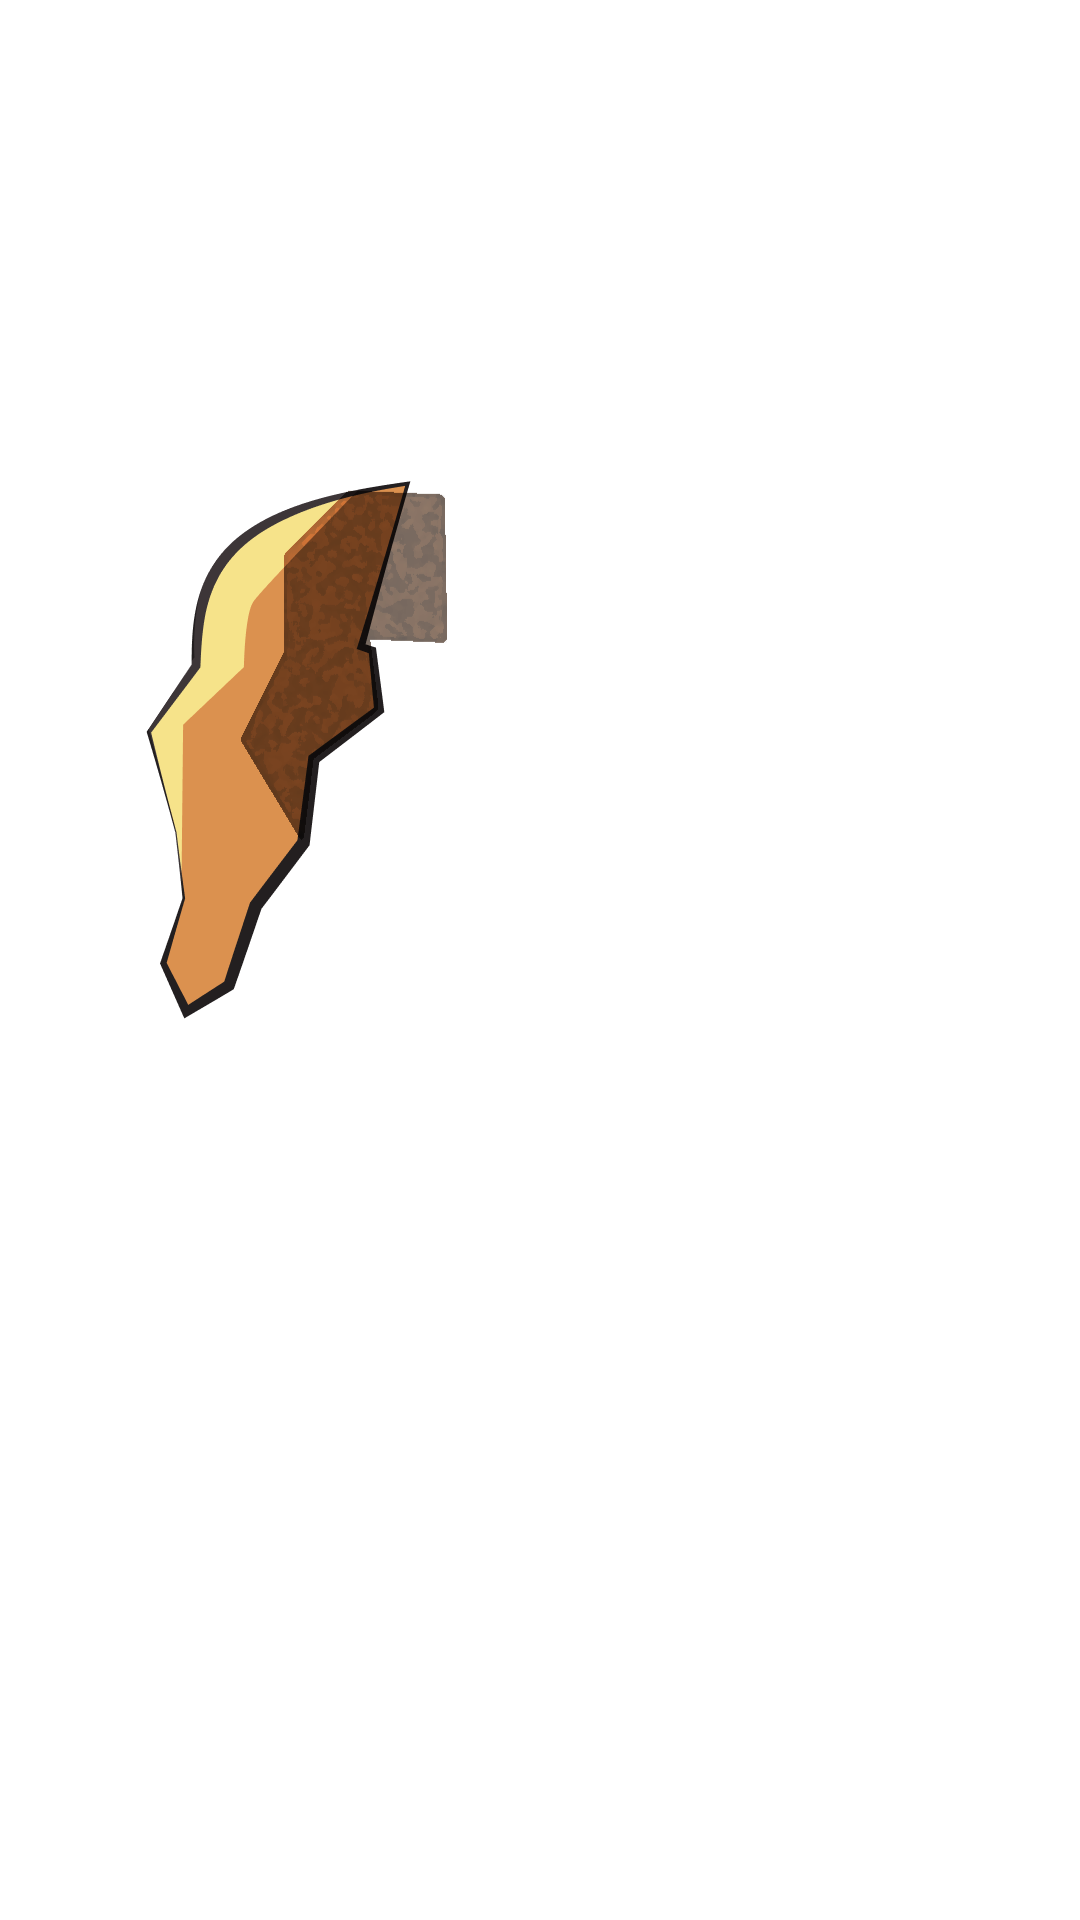
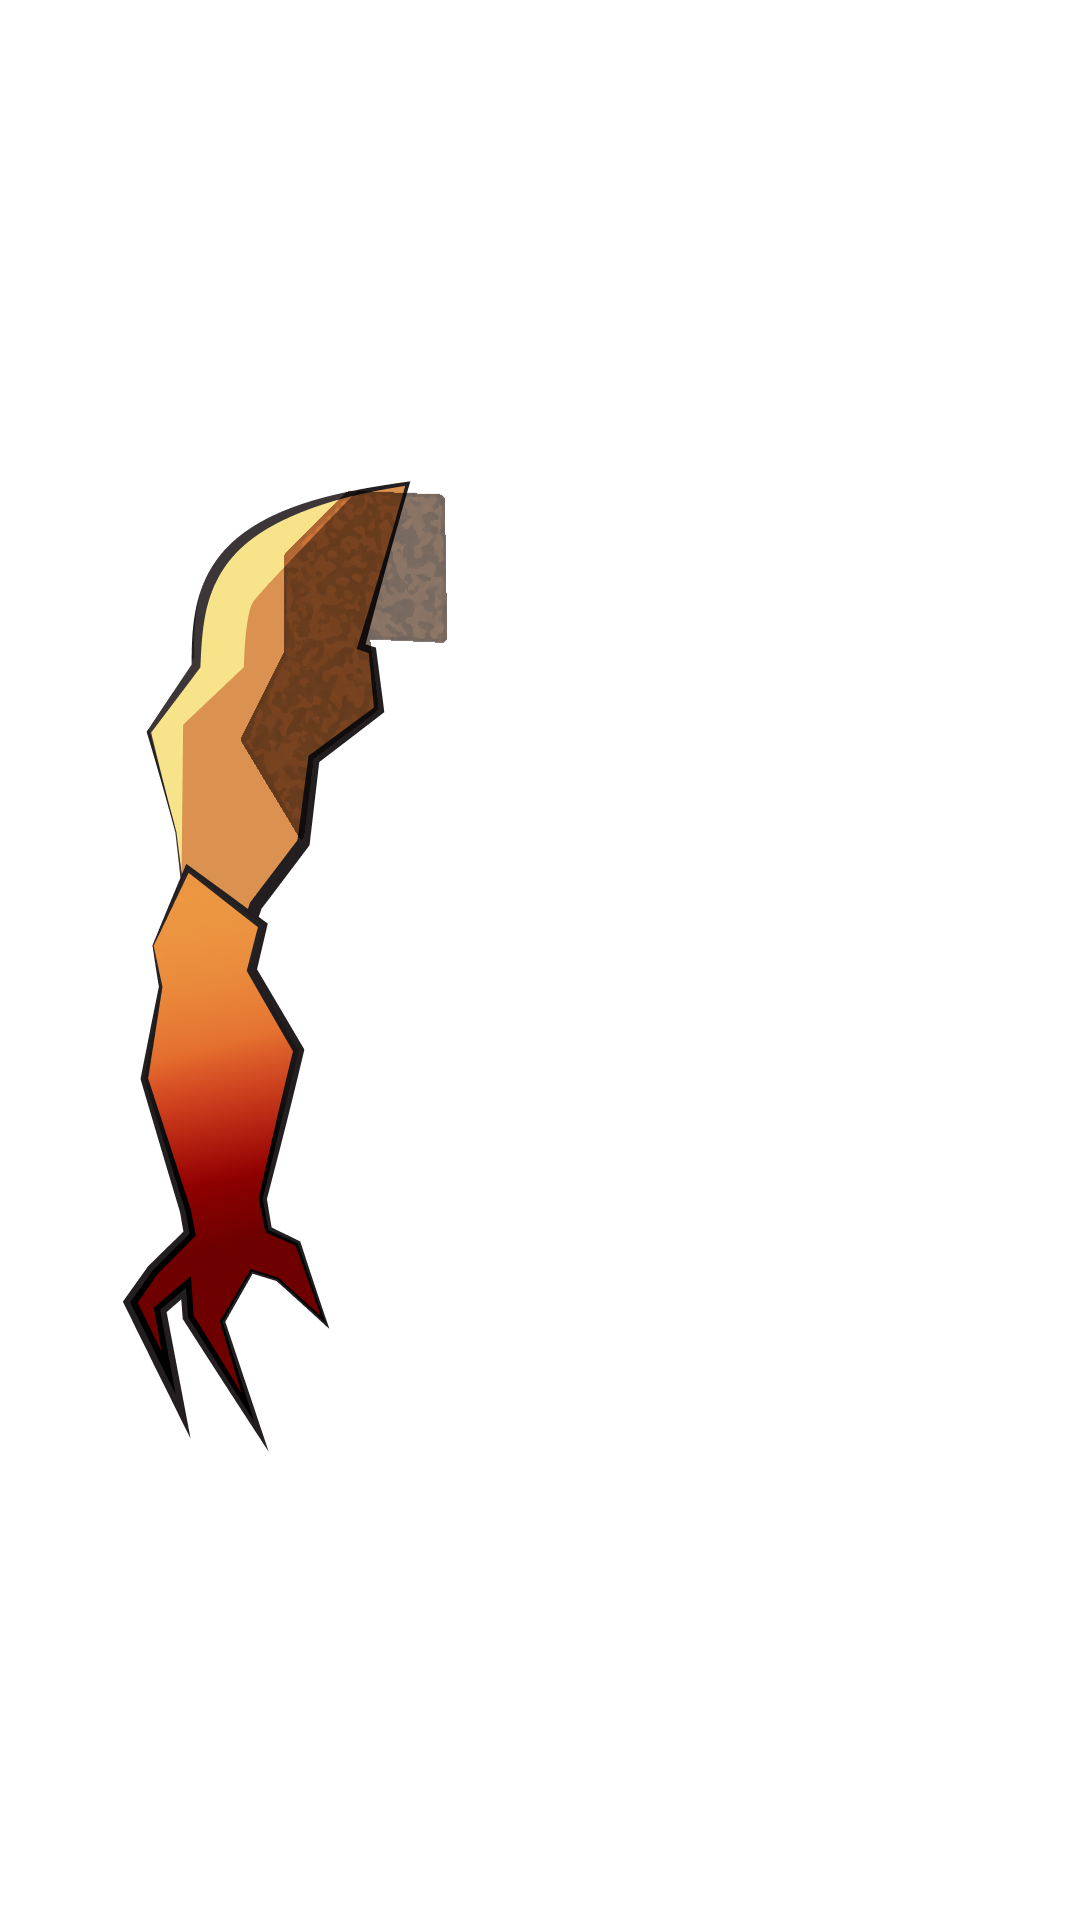
final monster attempts

Changed region(s): [[0.1222, 0.4375, 0.3056, 0.75]]

diff --git a/src/sketch.js b/src/sketch.js
@@ -1,4 +1,5 @@
 //import shared session variable and current task variable
+//import {generateScores} from "./scoreCalc.js";
 
 let stringSesh = "000"
 
@@ -8,32 +9,52 @@ let startTime;
 
 let bgImg;
 let idleVid;
-let score;
+let totalScore;
+let scores;
 let sessionData;
 
 let complete = false;
 
 let monsterTypes = ["cat", "demon", "mummy", "lava", "spider", "wolf"]
+let monsterType;
 
-let monsterVids = ["media/monsters/monster_1.mp4", 
-  "media/monsters/monster_2.mp4",
-  "media/monsters/monster_3.mp4",
-  "media/monsters/monster_4.mp4",
-  "media/monsters/monster_5.mp4",
-  "media/monsters/monster_6.mp4"];
+let bodyParts = ["head", "leftArm", "rightArm", "leftLeg", "rightLeg", "torso"];
+let qualities = ["good", "medium", "bad"]
+
+
+//final monster image
+let torsoImg = null;
+let torsoLoading = false;
 
 function preload() {
   // Load JSON data
   sessionData = loadJSON('sessions.json');
+
+  bgImg = loadImage("./media/background.png")
+
+  sessionSet = sessionData[stringSesh]
+
+  monsterType = monsterTypes[sessionSet.monsterType];
+
+  for(let i = 0; i < qualities.length; i++){
+    for(let j = 0; j < bodyParts.length; j++){
+      loadImage(`./media/${monsterType}/${qualities[i]}/${qualities[i]}-${bodyParts[j]}.png`)
+    }
+    if(monsterType == "spider"){
+      loadImage(`./media/${monsterType}/${qualities[i]}/${qualities[i]}-spiderLegs.png`)
+    }
+  }
+
+
   
-  bgImg = loadImage("media/background.png")
+  //bgImg = loadImage("./media/background.png")
 }
 
 function setup() {
   // Get the array of monsters for monster_1
   sessionSet = sessionData[stringSesh]
 
-  let monsterType = monsterTypes[floor(random(monsterTypes.length))];/*sessionSet.monsterType*/
+  monsterType = monsterTypes[sessionSet.monsterType];
 
   createCanvas(500, 900);
   console.log(monsterType)
@@ -54,11 +75,21 @@ function setup() {
   startTime = millis();
 
   imageMode(CORNER)
+
+  scores = generateScores();
+  console.log("stomach score: " + scores.stomachScore)
 }
 
 function draw() {
   if(complete){
-    
+    background(bgImg)
+
+    if (torsoImg) {
+      image(torsoImg, 100, 100); // choose position/size you want
+    } else if (torsoLoading) {
+      fill(255);
+      text("Loading...", 20, 40);
+    }
   }
   else {
     background(0);
@@ -67,10 +98,66 @@ function draw() {
 
   textSize(22);
   fill('white');
-  text("Score: " + score, 300, 50)
+  text("Score: " + totalScore, 300, 50)
 
 }
 
-function finalMonster() {
 
+function createMonster() {
+  complete = !complete;
+
+  const q = limbQuality(scores.stomachScore);
+  const path = `./media/${monsterType}/${q}/${q}-torso.png`;
+
+  torsoLoading = true;
+  torsoImg = null;
+
+  loadImage(
+    path,
+    (img) => {
+      torsoImg = img;        // ✅ p5.Image object
+      torsoLoading = false;
+      console.log("Loaded torso OK:", path);
+    },
+    (err) => {
+      torsoLoading = false;
+      console.error("Failed to load torso:", path, err);
+    }
+  );
+}
+
+
+
+
+//function createMonster() {
+//  complete = !complete;
+//
+//  /*STATION:Monster Counterpart 
+//    STOMACH: Torso 
+//    BRAINS: Arms 
+//    HEAD: Eyes
+//    BLEEDING: Arms */
+//
+//  image(`./media/${monsterType}/${limbQuality(scores.stomachScore)}/${limbQuality(scores.stomachScore)}-torso.png`)
+//
+//  if(monsterType == "spider"){
+//
+//  }
+//
+//
+//}
+
+function limbQuality(limbScore){
+  let quality = "";
+  if(limbScore <= 200){
+    quality = "bad"
+  }
+  else if(limbScore <= 399){
+    quality = "medium"
+  }
+  else{
+    quality = "good"
+  }
+
+  return quality;
 }

diff --git a/monster.html b/monster.html
@@ -1,12 +1,13 @@
 <!DOCTYPE html>
 <html>
-  <head><meta charset="utf-8"><title>p5 test</title></head>
+  <head><meta charset="utf-8"><title>monster</title></head>
   <body>
     <h1>test</h1>
-    <button onclick="finalMonster()">Complete</button>
+    <button onclick="createMonster()">Complete</button>
     <script src="libraries/p5.min.js"></script>
     <!-- only include p5.sound if you actually use it -->
     <!-- <script src="libraries/p5.sound.min.js"></script> -->
+    <script src="src/scoreCalc.js"></script>
     <script src="src/sketch.js"></script>
   </body>
 </html>

diff --git a/src/scoreCalc.js b/src/scoreCalc.js
@@ -1,0 +1,12 @@
+// scoreCalc.js
+function generateScores() {
+    const randInt0to500 = () => Math.floor(Math.random() * 501);
+  
+    return {
+      bleedingScore: randInt0to500(),
+      brainScore: randInt0to500(),
+      stomachScore: randInt0to500(),
+      eyeScore: randInt0to500(),
+    };
+  }
+  
